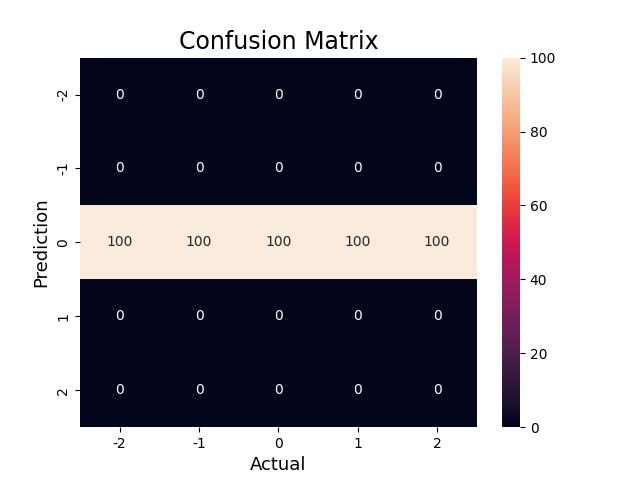
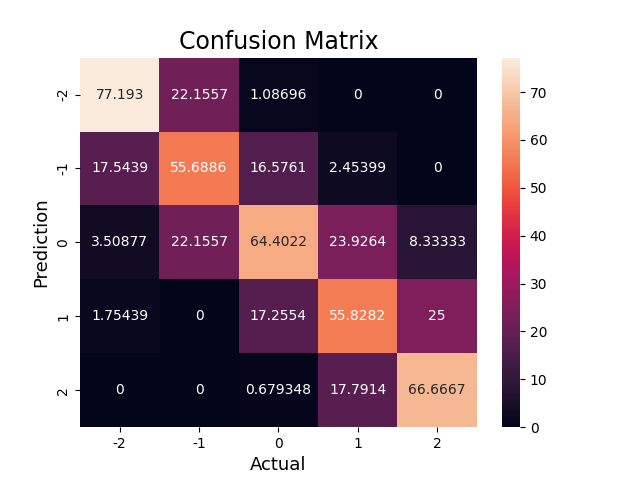
hyperparameter tuning

diff --git a/src/dataset_handling.py b/src/dataset_handling.py
@@ -450,6 +450,51 @@ def select_sensors_diff(sensors=[2,992], hparams:Config=Config(), do_validation:
         print(f"Sensors {sensors} data saved in files:\n\t- {train_dataset_path}\n\t- {test_dataset_path}")
 
 
+def select_sensors_diff_2(sensors=[2,992], hparams:Config=Config(), do_validation:bool=False):
+    '''
+    Saves a csv with only the realizations of the multiple chosen sensors.
+
+    Arguments:
+        - `sensors`: the sensors to isolate, if it's None it will get all the sensors
+        - `do_validation`: if to further split the training set into a validation set
+        - `hparams`: hyperparameters
+    '''
+    print("ATTENTION: Using differential (deg 2) dataset.")
+    dataset_path = "./datasets/sensor_data_multi.csv"
+    train_dataset_path = f"./datasets/{hparams.train_file_name}"
+    val_dataset_path   = f"./datasets/{hparams.val_file_name}"
+    test_dataset_path  = f"./datasets/{hparams.test_file_name}"
+
+    dataset = pd.read_csv("./datasets/sensor_data_cleaned.csv").diff().iloc[1:].diff().iloc[1:]
+
+    try:
+        if sensors != None:
+            sensor_list = [str(i) for i in sensors]
+            dataset = dataset[sensor_list]
+    except:
+        raise ValueError
+    dataset.to_csv(dataset_path, index=False, header=False)
+
+    # Train & Test
+    train_test_split(X=np.loadtxt(dataset_path, delimiter=",", dtype=np.float32),
+                     split=hparams.train_test_split,
+                     train_file_name=train_dataset_path,
+                     test_file_name=test_dataset_path    
+                     )
+
+    # Train & Validation
+    if do_validation:
+        train_test_split(X=np.loadtxt(train_dataset_path, delimiter=",", dtype=np.float32),
+                        split=hparams.train_val_split,
+                        train_file_name=train_dataset_path,
+                        test_file_name=val_dataset_path    
+                        )
+        print(f"Sensors {sensors} data saved in files:\n\t- {train_dataset_path}\n\t- {val_dataset_path}\n\t- {test_dataset_path}")
+    else:
+        print(f"Sensors {sensors} data saved in files:\n\t- {train_dataset_path}\n\t- {test_dataset_path}")
+
+
+
 def corr_heatmap(correlation,
                  save_pic:bool=True,
                  show_pic:bool=True,
@@ -541,7 +586,7 @@ if __name__ == '__main__':
     cluster = min(hparams.cluster_selected, n_clusters)
     # for i in range(1,n_clusters+1):
     #     print(i,":", clusters[i])
-    select_sensors_diff(sensors=[81])#clusters[cluster])
+    select_sensors_diff_2(sensors=[81])#clusters[cluster])
 
     # Save funky pictures of the clusters  
     # for i in range(1,n_clusters+1):

diff --git a/src/ffsd_training.py b/src/ffsd_training.py
@@ -189,7 +189,7 @@ def train_model(X_train:torch.Tensor,
                 val_frequency:int=100
                 ):
     '''
-    Instanciates and trains the model.
+    Instanciate, train and return the model the model.
 
     Arguments:
         - `X_train`: train Tensor [n_sequences, lookback, data_dim]
@@ -202,7 +202,7 @@ def train_model(X_train:torch.Tensor,
     '''
     hparams = Config()
     data_dim = int(X_train.size()[1] / lookback)
-    device = torch.device("cuda" if torch.cuda.is_available() else "cpu")
+    device = ut.get_device()
     print(f"Using device {device}.")
     input_size = data_dim
     hidden_size = hparams.hidden_dim
@@ -284,7 +284,7 @@ def load_model(data_dim:int=526,
         - `hidden_dim`: hidden dimension of the model
         - `num_layers`: number of concatenated gru networks
     '''
-    device = torch.device("cuda" if torch.cuda.is_available() else "cpu")
+    device = ut.get_device()
     model = FFSD(data_dim=data_dim,
                 hidden_dim=hidden_dim,
                 num_layers=num_layers,
@@ -377,7 +377,7 @@ def validate_model(model:FFSD,
 def fix_class_imbalance(X:torch.Tensor,
                         y:torch.Tensor,
                         verbose:bool=False,
-                        scaling_factor:int=2
+                        scaling_factor:float=0.75
                         ) -> tuple[torch.Tensor, torch.Tensor]:
     '''
     Upsampling of the minority classes
@@ -406,7 +406,7 @@ def fix_class_imbalance(X:torch.Tensor,
         else:
             # for every time you need to duplicate the samples
             minority_class = dataframe[dataframe['label']==(i)]
-            for j in range(max(0, int( (label_zero/value_counts[i])/scaling_factor) )):
+            for j in range(max(0, int( (label_zero/value_counts[i])*scaling_factor) )):
                 dataframe = pd.concat([dataframe, minority_class])
 
     if verbose:
@@ -435,7 +435,7 @@ def fix_class_imbalance(X:torch.Tensor,
 if __name__ == '__main__':
     # setup
     hparams = Config()
-    device = torch.device("cuda" if torch.cuda.is_available() else "cpu")
+    device = ut.get_device()
     ut.set_seed(hparams.seed)
 
     X_train, y_train, X_test, y_test = get_data()

diff --git a/src/ssd_training.py b/src/ssd_training.py
@@ -196,7 +196,7 @@ def train_model(X_train:torch.Tensor,
         data_dim = X_train.size()[2]
     except:
         data_dim = 1
-    device = torch.device("cuda" if torch.cuda.is_available() else "cpu")
+    device = ut.get_device()
     print(f"Using device {device}.")
     input_size = data_dim
     hidden_size = hparams.hidden_dim
@@ -277,7 +277,7 @@ def load_model(data_dim:int=526,
         - `hidden_dim`: hidden dimension of the model
         - `num_layers`: number of concatenated gru networks
     '''
-    device = torch.device("cuda" if torch.cuda.is_available() else "cpu")
+    device = ut.get_device()
     model = SSD(data_dim=data_dim,
                 hidden_dim=hidden_dim,
                 num_layers=num_layers,
@@ -376,7 +376,7 @@ def validate_model(model:SSD,
 if __name__ == '__main__':
     # setup
     hparams = Config()
-    device = torch.device("cuda" if torch.cuda.is_available() else "cpu")
+    device = ut.get_device()
     ut.set_seed(hparams.seed)
 
     X_train, y_train, X_test, y_test = get_data()

diff --git a/src/hyperparameters.py b/src/hyperparameters.py
@@ -8,7 +8,7 @@ class Config:
 
     ## Training parameters
     load_model: bool = False #. . . . . . Whether to load the model or train a new one
-    n_epochs: int = 5001 # . . . . . . . Number of epochs of training
+    n_epochs: int = 7501 # . . . . . . . Number of epochs of training
     val_frequency: int = 100 #. . . . . . How often to perform a validation step
     seed: int = 33 #. . . . . . . . . . . Global Seed
     batch_size: int = 128 # . . . . . . . Amount of samples in each batch
@@ -48,7 +48,7 @@ class Config:
 
 
     ## Network parameters
-    hidden_dim: int = 4 # . . . . . . . . Dimension of the hidden state
+    hidden_dim: int = 7 # . . . . . . . . Dimension of the hidden state
     num_layers: int = 3 # . . . . . . . . Number of layers for the generator
     lookback: int = 10 # . . . . . . . . Length of the input sequences
     privileged_lookback: int = 5 #. . . . Length of the privileged lookback

diff --git a/src/utilities.py b/src/utilities.py
@@ -396,3 +396,7 @@ def show_summary_statistics(actual:torch.Tensor,
     print("Recall:    ", recall)
     print("F1 score:  ", f1_val)
     return cm
+
+
+def get_device() -> torch.device:
+    return torch.device("cuda" if torch.cuda.is_available() else "cpu")
